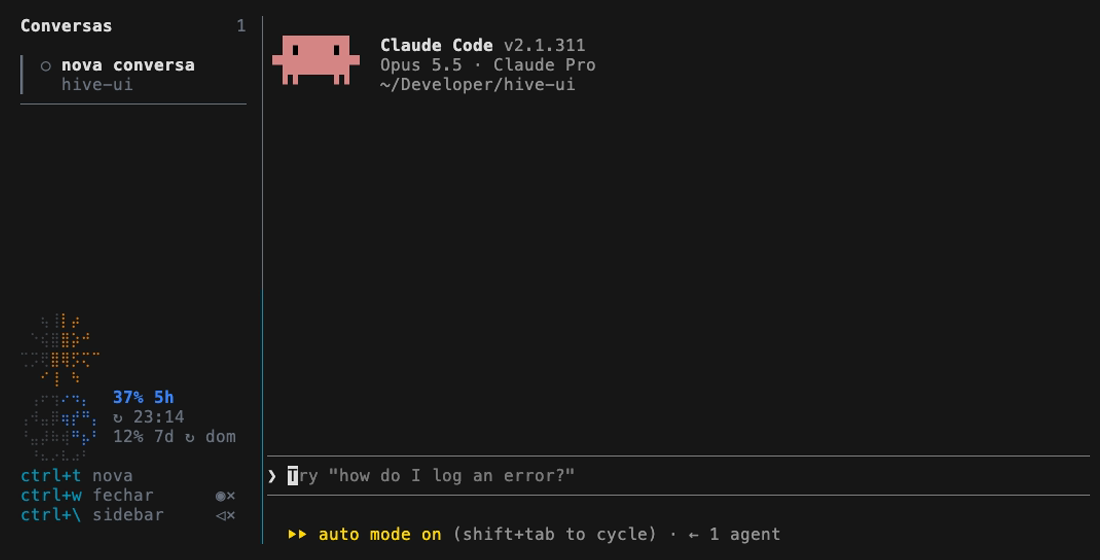
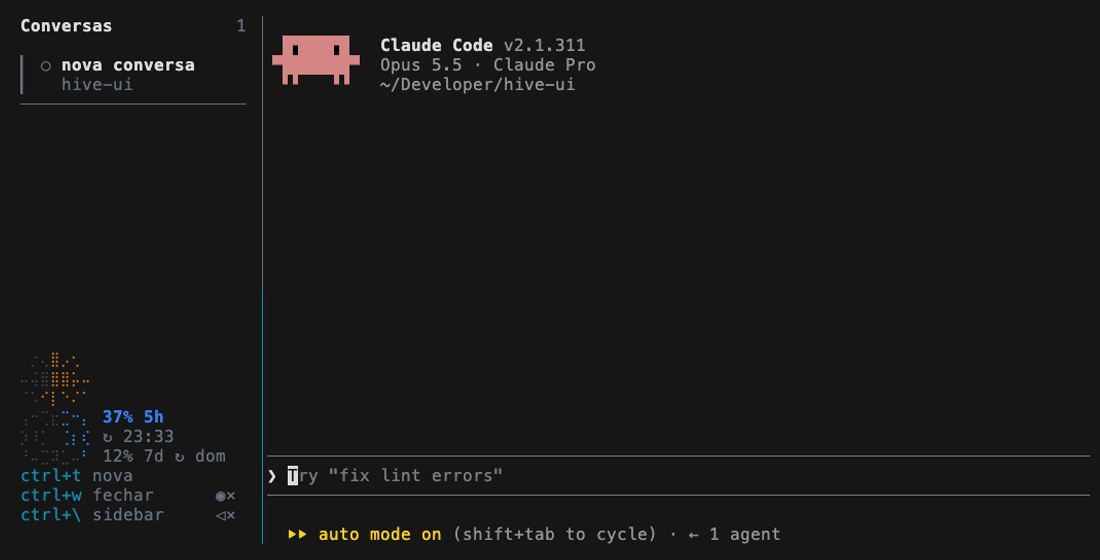
sidebar: símbolos menores, 7x3 caracteres, com o do Codex redesenhado

Changed region(s): [[0.0309, 0.5768, 0.2164, 0.8196], [0.3091, 0.8196, 0.5255, 0.8804]]

diff --git a/sidebar/anel.js b/sidebar/anel.js
@@ -1,51 +1,43 @@
 // Indicador de uso em braille, com o símbolo de cada IA: cada caractere é
 // uma grade de 2x4 pontos, e no terminal os pontos ficam quase quadrados,
-// então 8 colunas x 4 linhas formam um desenho de 16x16 pontos. O símbolo
+// então 7 colunas x 3 linhas formam um desenho de 14x12 pontos. O símbolo
 // enche a partir do topo, em sentido horário; cada caractere tem uma cor só,
 // e conta como cheio se o ângulo médio dos seus pontos já foi alcançado.
-export const colunas = 8;
-export const linhas = 4;
+export const colunas = 7;
+export const linhas = 3;
 
 const pontos = [[0x01, 0x08], [0x02, 0x10], [0x04, 0x20], [0x40, 0x80]];
 
-// O asterisco de raios irregulares do Claude e o nó de seis elos do Codex
-// (OpenAI): a borda em lobos, o hexágono no meio e os raios em espiral.
+// O asterisco de raios do Claude e o nó de seis elos do Codex (OpenAI): a
+// borda em lobos, o hexágono no meio e os raios que ligam um ao outro.
 const simbolos = {
 	claude: [
-		'       ##       ',
-		'    #  ##  #    ',
-		'    ## ## ##    ',
-		'     # ## #     ',
-		'  #  ######  #  ',
-		'   ## #### ###  ',
-		'    ########    ',
-		'     ######     ',
-		'################',
-		'    #######     ',
-		'   ## #### ##   ',
-		' ##  ### ##  #  ',
-		'     # #  #     ',
-		'    #  #  ##    ',
-		'       #   #    ',
-		'       #        ',
+		'      ##      ',
+		'   #  ##  #   ',
+		'    # ## #    ',
+		'  #  ####  #  ',
+		'   ########   ',
+		'    ######    ',
+		'##############',
+		'   ########   ',
+		' ##  ## #  ## ',
+		'    # #  #    ',
+		'   #  #   #   ',
+		'      #       ',
 	],
 	codex: [
-		'                ',
-		'    #### ###    ',
-		'   ##  ##  ##   ',
-		'   #   #    #   ',
-		'   #  ##   ###  ',
-		'  ##  ########  ',
-		' # ########   # ',
-		' #  ###  ##   # ',
-		' #   ##  ###  # ',
-		' #   ######## # ',
-		'  ########  ##  ',
-		'  ###    #  #   ',
-		'   #    #   #   ',
-		'   ##  ##  ##   ',
-		'    ### ####    ',
-		'                ',
+		'    ##  ##    ',
+		'  ##  ##  ##  ',
+		' #    #     # ',
+		' #   #####  # ',
+		'#  ##    #   #',
+		' # #      # # ',
+		' # #      # # ',
+		'#   #    ##  #',
+		' #  #####   # ',
+		' #     #    # ',
+		'  ##  ##  ##  ',
+		'    ##  ##    ',
 	],
 };
 
